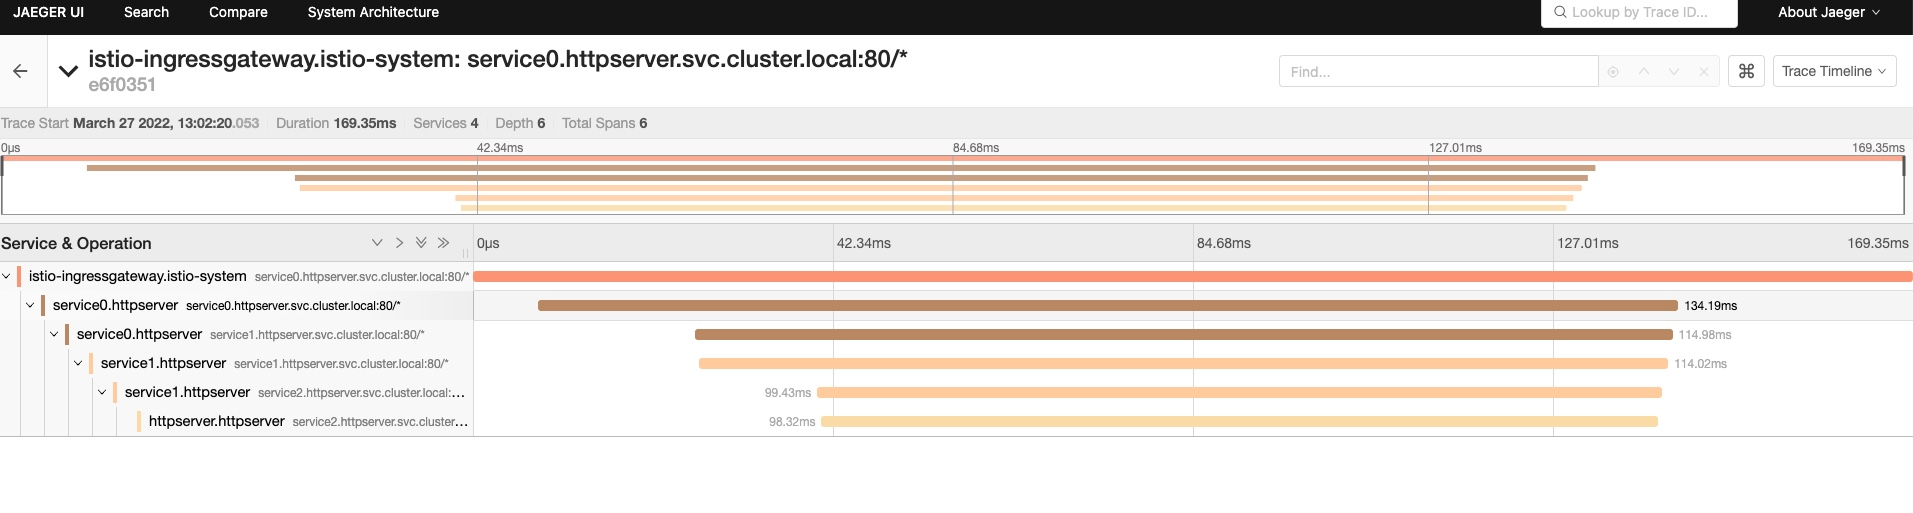
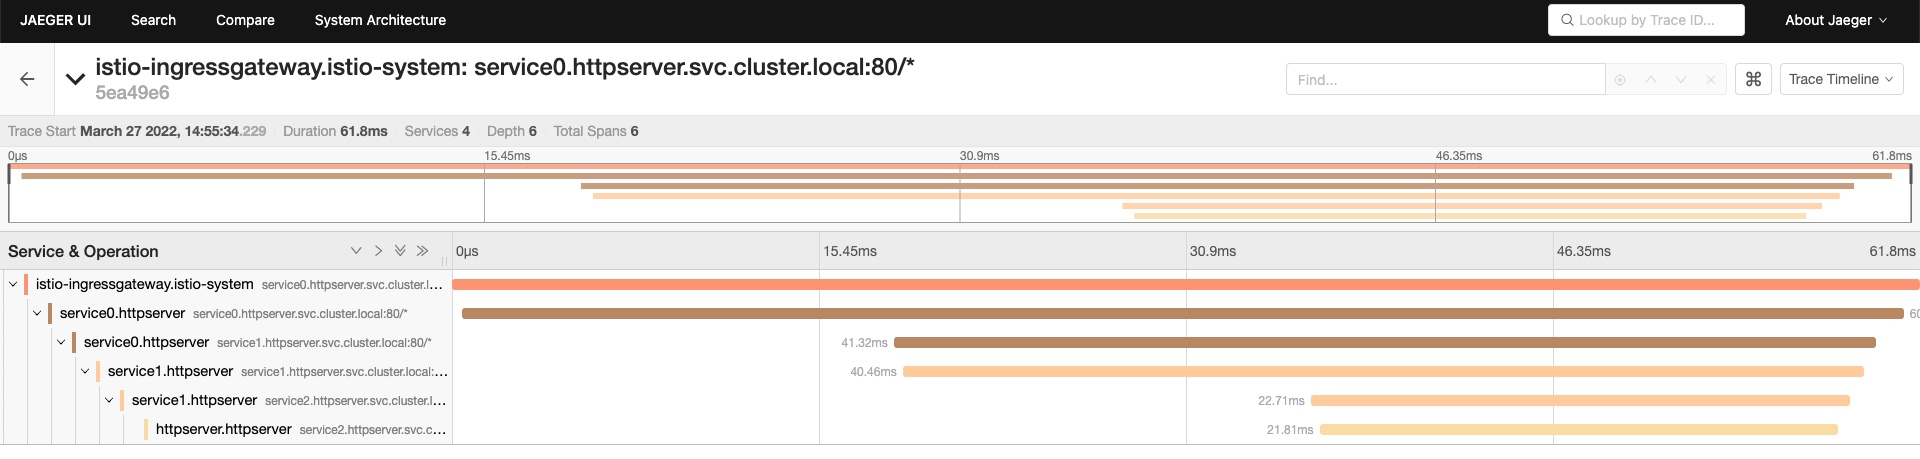
update jaeger screenshot

diff --git a/module12/module12_homework.md b/module12/module12_homework.md
@@ -139,8 +139,8 @@ http://$NodeIP:$TracingPort
 
 - 考虑 open tracing 的接入
 
-  ```
+  ```shell
   # 详见最终步骤的 2、3，主要关注 service 配置将追踪的 Header 一直带下去的代码改动，以及 Jaeger 的安装配置及查看步骤
   ```
 
-  ![](./service0_trace.jpg)
+  ![](./jaeger_search.jpg)![](./service0_trace.jpg)
